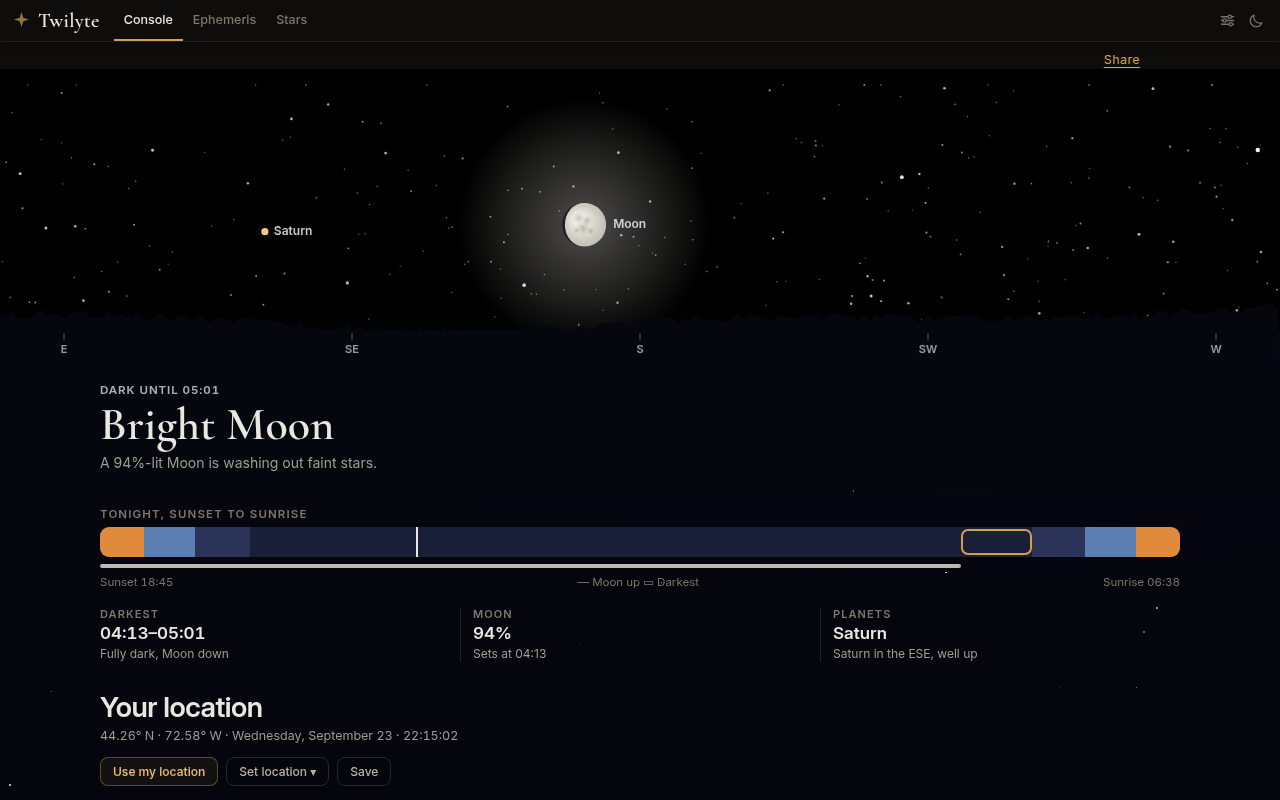
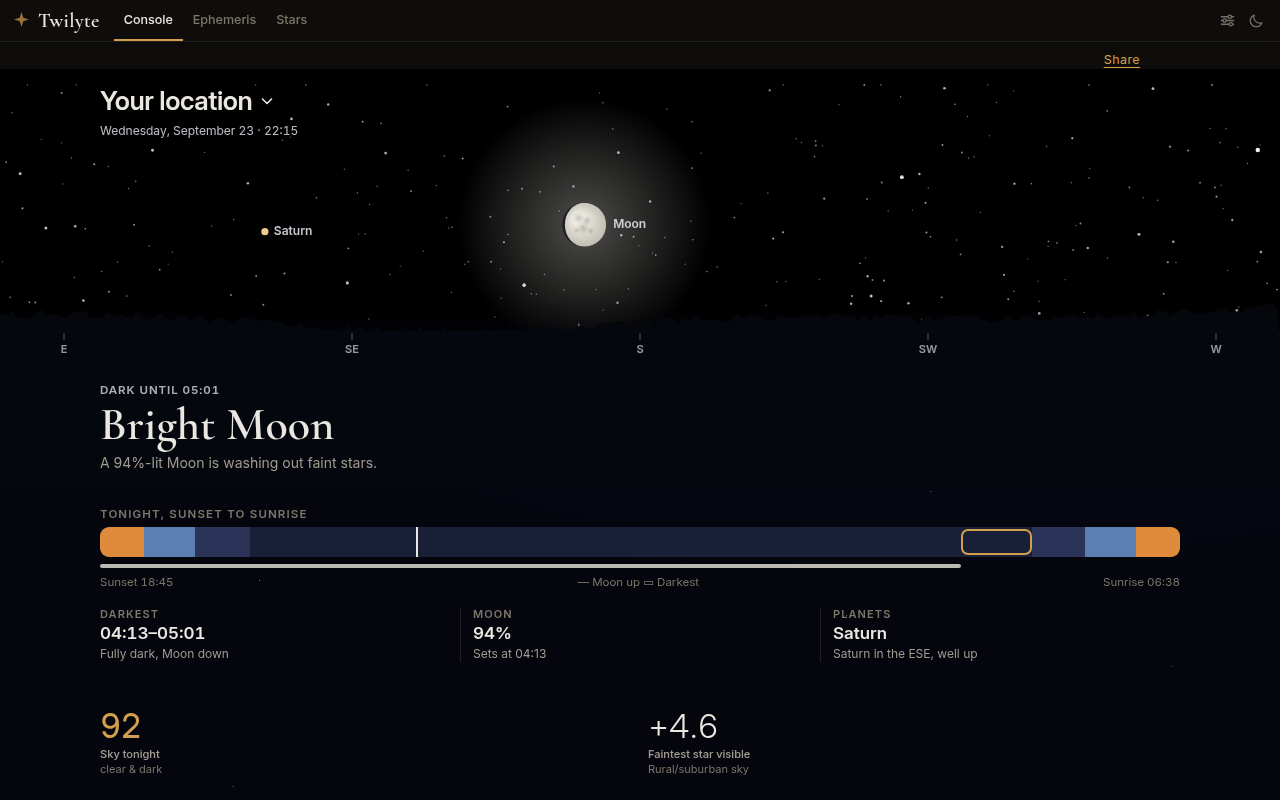
Console: put the location in a tappable header over the painting
Until now the Console's place sat under the horizon view as a block of its
own: the name, coordinates, date and time, then Use my location / Set
location / Save buttons, saved-place chips and, behind "Set location", the
city search. It came after the painting and the verdict, so the first
screen showed a sky without saying where it was, and changing place meant
scrolling past tonight's answer to reach the buttons.

The place is now the painting's header: its name with a chevron, and the
date and time under it, over the top-left of the sky, with a text shadow
so it reads over a daytime blue as well as a night one. It is one button
(aria-expanded, aria-controls; 44 px tall). Tapping it opens a panel right
under the painting with the coordinates, Use my location, Save, the saved
places and the city search. Choosing a place or a saved chip closes it, as
before. A first geolocation that fails still opens it with the message, and
"Locating..." shows beside the date while it runs. The old block below is
removed; its unused .rt-locname/.rt-spacer CSS goes with it.

HorizonHero takes the two pieces as `header` and `panel` props, drawn over
the canvas and between the painting and the ribbon respectively; the
Console still owns the state (pickerOpen, search, saved).

No new test: HorizonHero uses hooks and most of the astronomy, which the
stub-React harness can't run. Checked in Playwright at 390x844 (night and
day) and 1280x900: header toggles aria-expanded, a mocked search for
[…]

Changed region(s): [[0.0625, 0.875, 0.3438, 0.9688], [0.0938, 0.0938, 0.2188, 0.1875], [0.5, 0.875, 0.5938, 0.9688]]

diff --git a/index.html b/index.html
@@ -2,7 +2,7 @@
 <html lang="en">
 <head>
 <meta charset="utf-8" />
-<meta http-equiv="Content-Security-Policy" content="default-src 'self'; script-src 'self' 'sha256-LtvvfGVmfcoHWp4+TD4Lt7CBdUP12N0xoz2a4TCIlgA=' 'sha256-2WFykE7wvy9rfb6MuxdEk17+inylzAieA3wTF6WO6oc=' 'sha256-5iQLZZarga65DX0f9Sd0iyRmfHgUzB8mc6W/19dA1m0=' 'sha256-3jrQJQU857KiIG0/RFQAcnDl4+/lJODK+0Xq3/0PnaI=' 'sha256-JAy4ooiqCu/2GUX/T0oycyxLZ4vrWZ1Xwxtepo5wmOg='; style-src 'self' 'unsafe-inline'; img-src 'self' data:; font-src 'self'; connect-src 'self' https://geocoding-api.open-meteo.com https://api.open-meteo.com https://twilight-counter.ken-b39.workers.dev; manifest-src 'self'; worker-src 'self'; base-uri 'self'; form-action 'self'; object-src 'none'; upgrade-insecure-requests" />
+<meta http-equiv="Content-Security-Policy" content="default-src 'self'; script-src 'self' 'sha256-LtvvfGVmfcoHWp4+TD4Lt7CBdUP12N0xoz2a4TCIlgA=' 'sha256-2WFykE7wvy9rfb6MuxdEk17+inylzAieA3wTF6WO6oc=' 'sha256-5iQLZZarga65DX0f9Sd0iyRmfHgUzB8mc6W/19dA1m0=' 'sha256-tYEtE0kpLDDuqS/6ySsctSCJyRRL2qqbyqNi3qi8et4=' 'sha256-JAy4ooiqCu/2GUX/T0oycyxLZ4vrWZ1Xwxtepo5wmOg='; style-src 'self' 'unsafe-inline'; img-src 'self' data:; font-src 'self'; connect-src 'self' https://geocoding-api.open-meteo.com https://api.open-meteo.com https://twilight-counter.ken-b39.workers.dev; manifest-src 'self'; worker-src 'self'; base-uri 'self'; form-action 'self'; object-src 'none'; upgrade-insecure-requests" />
 <meta name="viewport" content="width=device-width, initial-scale=1, viewport-fit=cover" />
 <meta name="theme-color" content="#070a14" />
 <title>Twilyte — Live Sky Dashboard & Twilight Ephemeris</title>
@@ -1592,7 +1592,7 @@ const C = {
 // Bumped with sw.js's CACHE, so a Sensor details screenshot says which build
 // it came from. It sat at v56 for weeks while the app moved on, which made
 // every field report ambiguous.
-const BUILD = "v84";
+const BUILD = "v85";
 const PAGE_BG = "radial-gradient(1200px 760px at 75% -10%, #1b2440 0%, #0a0e1e 45%, #04050d 100%)";
 const PHASE_META = {
   day: {
@@ -3005,7 +3005,7 @@ function SkyChart({ stars, lines, planets, moon, sunAz, fix, polaris }) {
 
 /* The top of the Console: the painted sky with the
    verdict over its ground, then the ribbon and the facts. */
-function HorizonHero({ loc, now, live, glance, bortle }) {
+function HorizonHero({ loc, now, live, glance, bortle, header, panel }) {
   const canvasRef = useRef(null);
   const wrapRef = useRef(null);
   const [width, setWidth] = useState(390);
@@ -3090,6 +3090,7 @@ function HorizonHero({ loc, now, live, glance, bortle }) {
         ref: canvasRef, className: 'hz-sky', style: { display: 'block', width: '100%', height: H },
         'aria-hidden': 'true'
       }),
+      header && React.createElement('div', { style: { position: 'absolute', left: pad, right: pad, top: 10, maxWidth: 1080, margin: '0 auto' } }, header),
       React.createElement('div', {
         // Changes on its own as twilight advances, rarely enough that
         // announcing it is useful rather than noisy.
@@ -3107,6 +3108,7 @@ function HorizonHero({ loc, now, live, glance, bortle }) {
         }, glance.sub)
       )
     ),
+    panel || null,
     React.createElement('div', { style: { maxWidth: 1080, margin: '0 auto 30px', display: 'grid', gap: 18 } },
       plan && React.createElement(NightRibbon, { plan, now, fmt }),
       React.createElement(NightFacts, { plan, now, fmt, illum: Math.round(live.m.illum * 100), planets: planetsTonight })
@@ -3404,8 +3406,6 @@ function RealtimeTwilight({ redMode } = {}) {
     }
     @media (max-width:520px){
       .rtbtn{font-size:12px;padding:9px 14px}
-      .rt-locbar .rt-spacer{display:none}
-      .rt-locname{flex:1 1 100%}
       .rt-sky{min-height:240px}
       .rt-readouts{gap:12px !important}
       .rt-readouts>div{flex:1 1 30% !important;min-width:0 !important}
@@ -3422,97 +3422,60 @@ function RealtimeTwilight({ redMode } = {}) {
   const pageBg = redMode
     ? "radial-gradient(120% 80% at 50% -10%, var(--bg-glow) 0%, var(--bg) 55%)"
     : PAGE_BG;
-  return React.createElement("div", {
-    style: {
-      minHeight: "100vh",
-      width: "100%",
-      overflowX: "hidden",
-      position: "relative",
-      // Own stacking context, so the star field's z-index -1 stays above
-      // this background instead of dropping behind it.
-      isolation: "isolate",
-      background: pageBg,
-      color: C.ink,
-      fontFamily: "var(--font-body)",
-      padding: "clamp(14px,3.5vw,40px)"
-    }
-  }, React.createElement("style", null, css),
+  // The place, as the header of the painting: tap it to change it. The
+  // panel it opens sits right under the painting, where the tap was.
+  const togglePicker = () => {
+    const open = !pickerOpen;
+    setPickerOpen(open);
+    if (!open) { setResults([]); setQuery(""); setSearchMsg(""); }
+  };
+  const placeHeader = React.createElement("div", null,
+    React.createElement("button", {
+      onClick: togglePicker,
+      "aria-expanded": pickerOpen,
+      "aria-controls": "rt-place-panel",
+      title: "Change location",
+      className: "rt-place",
+      style: {
+        display: "inline-flex", alignItems: "center", gap: 8, minHeight: 44, padding: "4px 0",
+        background: "transparent", border: "none", cursor: "pointer", color: C.ink,
+        fontFamily: "var(--font-ui)", fontWeight: 600, fontSize: "clamp(20px,4.4vw,26px)",
+        letterSpacing: "-0.015em", lineHeight: 1.1, textAlign: "left",
+        textShadow: "0 1px 10px rgba(3,5,12,.85)"
+      }
+    }, loc.name,
+      React.createElement("svg", { "aria-hidden": "true", width: 14, height: 14, viewBox: "0 0 14 14", style: { flexShrink: 0, transform: pickerOpen ? "rotate(180deg)" : "none", transition: "transform .15s" } },
+        React.createElement("path", { d: "M2.5 5l4.5 4.5L11.5 5", fill: "none", stroke: "currentColor", strokeWidth: 1.6, strokeLinecap: "round", strokeLinejoin: "round" }))
+    ),
+    React.createElement("div", {
+      style: { fontFamily: "var(--font-ui)", fontSize: 12, color: "rgba(238,241,250,.78)", fontVariantNumeric: "tabular-nums", textShadow: "0 1px 8px rgba(3,5,12,.9)" }
+    }, fmtDate(now, loc.tz), " \xB7 ", new Intl.DateTimeFormat([], {
+      timeZone: loc.tz, hour: "numeric", minute: "2-digit", hourCycle: h24 ? "h23" : "h12"
+    }).format(new Date(now)), geoMsg && !pickerOpen ? " \xB7 " + geoMsg : "")
+  );
+  const placePanel = pickerOpen && React.createElement("div", {
+    id: "rt-place-panel",
+    style: { maxWidth: 1080, margin: "0 auto 22px", paddingBottom: 18, borderBottom: `1px solid ${C.line}` }
+  },
   React.createElement("div", {
-    className: "tw-stars",
-    "aria-hidden": "true",
-    style: { position: "absolute", inset: 0, pointerEvents: "none", zIndex: -1 }
-  }, bgStars.map((s, i) => React.createElement("div", {
-    key: i,
-    style: {
-      position: "absolute",
-      top: `${s.top}%`,
-      left: `${s.left}%`,
-      width: s.s,
-      height: s.s,
-      borderRadius: "50%",
-      background: "#dfe6ff",
-      opacity: s.o,
-      animation: `tw ${4 + s.d}s ease-in-out ${s.d}s infinite`
-    }
-  }))),
-  React.createElement(HorizonHero, { loc, now, live, glance, bortle }),
-  React.createElement("header", {
-    style: {
-      maxWidth: 1080,
-      margin: "0 auto 22px"
-    }
-  }, React.createElement("h1", {
-    style: {
-      fontFamily: "var(--font-ui)",
-      fontWeight: 600,
-      fontSize: "clamp(20px,4.4vw,28px)",
-      lineHeight: 1.1,
-      margin: 0,
-      letterSpacing: "-0.015em"
-    }
-  }, loc.name), React.createElement("div", {
-    style: {
-      fontFamily: "var(--font-ui)",
-      fontSize: 12.5,
-      color: C.inkDim,
-      marginTop: 5,
-      fontVariantNumeric: "tabular-nums"
-    }
-  }, Math.abs(loc.lat).toFixed(2), "\xB0 ", loc.lat >= 0 ? "N" : "S", " \xB7 ", Math.abs(loc.lon).toFixed(2), "\xB0 ", loc.lon >= 0 ? "E" : "W", "  \xB7  ", fmtDate(now, loc.tz), " \xB7 ", new Intl.DateTimeFormat([], {
-    timeZone: loc.tz,
-    hour: "numeric",
-    minute: "2-digit",
-    second: "2-digit",
-    hourCycle: h24 ? "h23" : "h12"
-  }).format(new Date(now))), React.createElement("div", {
+    style: { fontFamily: "var(--font-ui)", fontSize: 12.5, color: C.inkDim, fontVariantNumeric: "tabular-nums" }
+  }, Math.abs(loc.lat).toFixed(2), "\xB0 ", loc.lat >= 0 ? "N" : "S", " \xB7 ", Math.abs(loc.lon).toFixed(2), "\xB0 ", loc.lon >= 0 ? "E" : "W"),
+  React.createElement("div", {
     className: "rt-locbar",
-    style: {
-      display: "flex",
-      flexWrap: "wrap",
-      alignItems: "center",
-      gap: 8,
-      marginTop: 14
-    }
+    style: { display: "flex", flexWrap: "wrap", alignItems: "center", gap: 8, marginTop: 12 }
   }, React.createElement("button", {
     className: "rtbtn solid",
     onClick: useMyLocation
   }, "Use my location"), React.createElement("button", {
-    className: "rtbtn",
-    onClick: () => { const open = !pickerOpen; setPickerOpen(open); if (!open) { setResults([]); setQuery(""); setSearchMsg(""); } }
-  }, "Set location \u25BE"), React.createElement("button", {
     className: "rtbtn" + (saved.some(s => s.lat === loc.lat && s.lon === loc.lon) ? " solid" : ""),
     onClick: toggleSave,
     title: "Save this location"
-  }, saved.some(s => s.lat === loc.lat && s.lon === loc.lon) ? "Saved" : "Save")), geoMsg && React.createElement("div", {
-    style: {
-      fontFamily: "var(--font-ui)",
-      fontSize: 11,
-      color: C.inkDim,
-      marginTop: 8
-    }
+  }, saved.some(s => s.lat === loc.lat && s.lon === loc.lon) ? "Saved" : "Save")),
+  geoMsg && React.createElement("div", {
+    style: { fontFamily: "var(--font-ui)", fontSize: 11, color: C.inkDim, marginTop: 8 }
   }, geoMsg),
   saved.length > 0 && React.createElement("div", {
-    style: { display: "flex", gap: 6, flexWrap: "wrap", marginTop: 8 }
+    style: { display: "flex", gap: 6, flexWrap: "wrap", marginTop: 10 }
   },
     React.createElement("span", { style: { fontFamily: "var(--font-ui)", fontSize: 10, letterSpacing: 2, color: C.brass, textTransform: "uppercase", alignSelf: "center" } }, "Saved:"),
     ...saved.map((s, i) =>
@@ -3523,11 +3486,7 @@ function RealtimeTwilight({ redMode } = {}) {
       }, s.name)
     )
   ),
-  pickerOpen && React.createElement("div", {
-    style: {
-      marginTop: 12
-    }
-  }, React.createElement("div", {
+  React.createElement("div", { style: { marginTop: 14 } }, React.createElement("div", {
     style: {
       fontFamily: "var(--font-ui)",
       fontSize: 10,
@@ -3598,7 +3557,41 @@ function RealtimeTwilight({ redMode } = {}) {
       background: "rgba(255,255,255,0.03)",
       cursor: "pointer"
     }
-  }, p.label))))),
+  }, p.label)))));
+  return React.createElement("div", {
+    style: {
+      minHeight: "100vh",
+      width: "100%",
+      overflowX: "hidden",
+      position: "relative",
+      // Own stacking context, so the star field's z-index -1 stays above
+      // this background instead of dropping behind it.
+      isolation: "isolate",
+      background: pageBg,
+      color: C.ink,
+      fontFamily: "var(--font-body)",
+      padding: "clamp(14px,3.5vw,40px)"
+    }
+  }, React.createElement("style", null, css),
+  React.createElement("div", {
+    className: "tw-stars",
+    "aria-hidden": "true",
+    style: { position: "absolute", inset: 0, pointerEvents: "none", zIndex: -1 }
+  }, bgStars.map((s, i) => React.createElement("div", {
+    key: i,
+    style: {
+      position: "absolute",
+      top: `${s.top}%`,
+      left: `${s.left}%`,
+      width: s.s,
+      height: s.s,
+      borderRadius: "50%",
+      background: "#dfe6ff",
+      opacity: s.o,
+      animation: `tw ${4 + s.d}s ease-in-out ${s.d}s infinite`
+    }
+  }))),
+  React.createElement(HorizonHero, { loc, now, live, glance, bortle, header: placeHeader, panel: placePanel }),
   // The verdict, the Moon and the planets are in the horizon view above;
   // what it doesn't carry is the clear-and-dark score and how faint a star
   // the sky allows.

diff --git a/sw.js b/sw.js
@@ -1,4 +1,4 @@
-const CACHE = 'twilight-v84';
+const CACHE = 'twilight-v85';
 const ASSETS = [
   '/',
   '/index.html',

diff --git a/CLAUDE.md b/CLAUDE.md
@@ -94,8 +94,14 @@ Three tabs, one `index.html`, no build step:
   (`heroFacing`), turning only to keep a risen Moon in frame; azimuth
   increases to the right, so facing south puts east on the left. Pure and
   tested: `nightSpan`, `nightPlan`, `moonNote`, `heroLabel`, `heroFacing`,
-  `panoX`/`panoY`; `drawHorizonScene` paints. Phase 2, not built: location
-  into a tappable header, tabs to the bottom, reference below the fold.
+  `panoX`/`panoY`; `drawHorizonScene` paints. **The location is the
+  painting's header** (2026-09-23): the place name and ▾, with date and time
+  under it, sit over the top-left of the sky; tapping opens a panel right
+  under the painting with coordinates, Use my location, Save, saved places
+  and the city search (the old block of those below the painting is gone).
+  `HorizonHero` takes them as `header` and `panel` props; `pickerOpen` is the
+  panel's state, and a failed first geolocation still opens it. Phase 2
+  still to do: tabs to the bottom, reference below the fold.
 - **Ephemeris: real time zones and the painted day (2026-09-22, #84).** The tab
   used to open on a hard-coded New York solstice (2026-06-21) with a hand-set
   "UTC-5 +DST", so anyone elsewhere — or anyone after a daylight-saving change —
